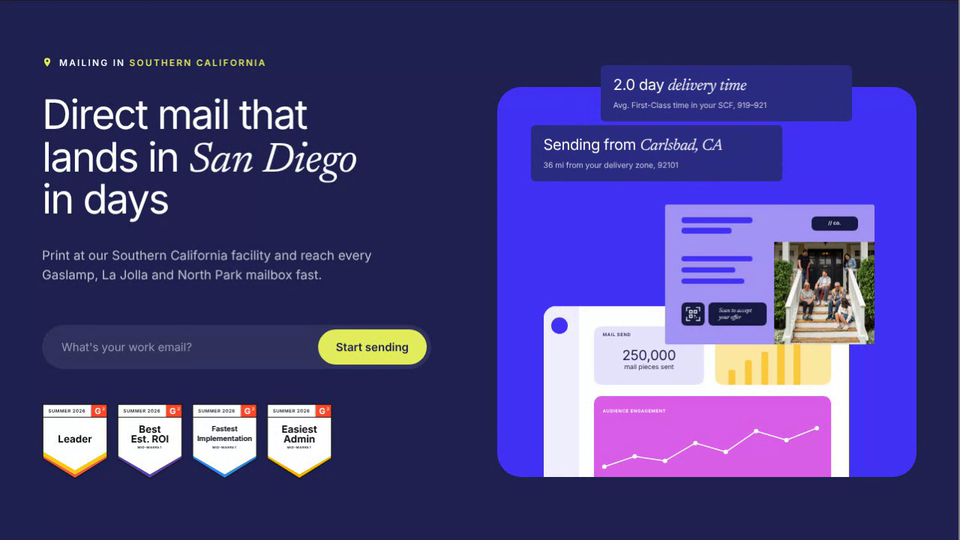
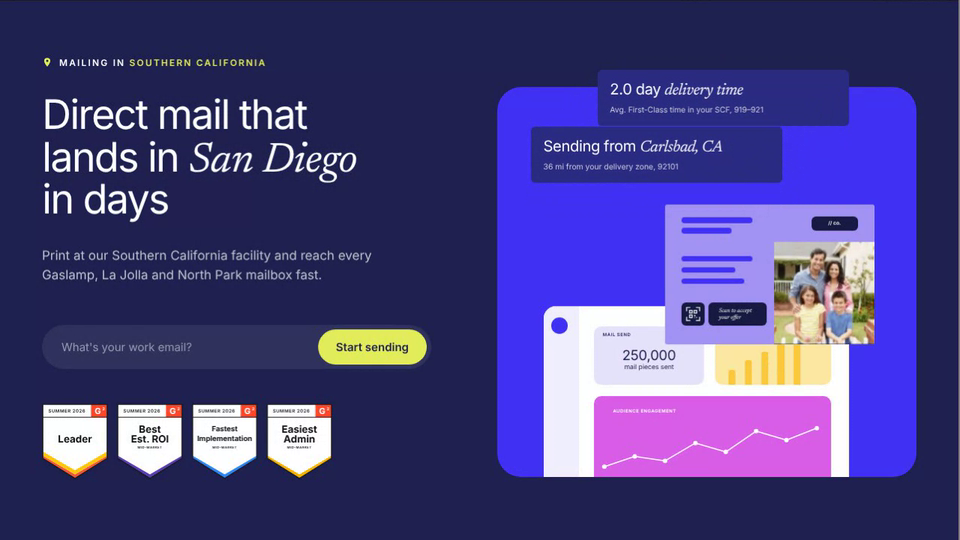
Location Hero: region labels (#312)
* Add Location Hero: Lob-style hero that switches San Francisco to Miami

Claude-Session: https://claude.ai/code/session_01AHeBdxeACcd88pkrxSw1Hy

* Location Hero: real mailpiece and photo, switcher in header, no logo or sign in, looser headline

Claude-Session: https://claude.ai/code/session_01AHeBdxeACcd88pkrxSw1Hy

* Location Hero: rounder, offset blurbs, shorter purple box, G2 badges, 3 line title, switcher in nav

Claude-Session: https://claude.ai/code/session_01AHeBdxeACcd88pkrxSw1Hy

* Location Hero: rebuild the mailpiece from the pink template gallery postcard layout in the purple style

Claude-Session: https://claude.ai/code/session_01AHeBdxeACcd88pkrxSw1Hy

* Location Hero: squarer postcard, QR beside scan block, smaller logo, bigger photo, G2 badges redrawn to match

Claude-Session: https://claude.ai/code/session_01AHeBdxeACcd88pkrxSw1Hy

* Location Hero: San Diego, tighter title, no crosshairs, chart up, new QR, postcard right, Start sending CTA

Claude-Session: https://claude.ai/code/session_01AHeBdxeACcd88pkrxSw1Hy

* Location Hero: longer blurbs, tighter title line height

Claude-Session: https://claude.ai/code/session_01AHeBdxeACcd88pkrxSw1Hy

* Location Hero: no drop shadow on the postcard

Claude-Session: https://claude.ai/code/session_01AHeBdxeACcd88pkrxSw1Hy

* Location Hero: blurbs placed in the marked positions

Claude-Session: https://claude.ai/code/session_01AHeBdxeACcd88pkrxSw1Hy

* Location Hero: no eyebrow text on blurbs, squarer blurb corners
[…]

Changed region(s): [[0.5625, 0.1185, 0.9062, 0.3556], [0.7812, 0.4444, 0.9375, 0.6519], [0.625, 0.7407, 0.7188, 0.7704]]

diff --git a/location-hero/index.html b/location-hero/index.html
@@ -24,7 +24,6 @@ nav.back span{color:#6e6e6e}nav.back b{font-weight:500;color:#fff;overflow:hidde
 .chip svg{width:14px;height:14px;fill:var(--lime)}
 .chip em{font-style:normal;color:var(--lime)}
 h1{font-weight:400;font-size:calc(clamp(34px,4.4vw,58px) - 2px);line-height:1.04;letter-spacing:-2px;margin:30px 0 34px;white-space:nowrap}
-h1 br.mo{display:none}
 h1 i{font-family:var(--serif);font-style:italic;letter-spacing:-.01em;font-size:clamp(34px,4.4vw,58px);line-height:0}
 .sw{display:inline-block;transition:opacity .35s,transform .35s,filter .35s}
 .sw.out{opacity:0;transform:translateY(10px);filter:blur(6px)}
@@ -39,7 +38,7 @@ h1 i{font-family:var(--serif);font-style:italic;letter-spacing:-.01em;font-size:
 
 /* illustration */
 .stage{position:relative;aspect-ratio:1/1;width:100%;max-width:600px;justify-self:end;container-type:inline-size}
-.blurbs div.bl{position:absolute;width:60%;background:var(--card);border-radius:6px;padding:0 3cqw;height:13.4%;display:flex;align-items:center;color:#fff;z-index:3;opacity:0;left:8%;top:24%;transform:scale(.8);transform-origin:50% 100%;transition:left 1.9s cubic-bezier(.22,.8,.3,1),top 1.9s cubic-bezier(.22,.8,.3,1),transform .6s cubic-bezier(.34,1.56,.64,1),opacity .45s}
+.blurbs div.bl{position:absolute;width:60%;background:var(--card);border-radius:6px;padding:1.6cqw 3cqw;height:13.4%;display:flex;align-items:center;color:#fff;z-index:3;opacity:0;left:8%;top:24%;transform:scale(.8);transform-origin:50% 100%;transition:left 1.9s cubic-bezier(.22,.8,.3,1),top 1.9s cubic-bezier(.22,.8,.3,1),transform .6s cubic-bezier(.34,1.56,.64,1),opacity .45s}
 .blurbs .bl[data-s="1"]{left:8%;top:15.4%;opacity:1;transform:none}
 .blurbs .bl[data-s="0"]{left:26%;top:0;opacity:1;transform:none}
 .blurbs .bl[data-s="x"]{left:26%;top:-15.4%;opacity:0;transform:scale(.97);transition:left 1.9s,top 1.9s cubic-bezier(.22,.8,.3,1),transform .6s,opacity .9s .2s}
@@ -60,7 +59,6 @@ h1 i{font-family:var(--serif);font-style:italic;letter-spacing:-.01em;font-size:
 .t1 span{position:absolute;left:0;right:0;top:63%;text-align:center;font:400 1.55cqw var(--sans);color:var(--ink)}
 .t2{left:56%;top:9%;width:38%;height:26%;background:var(--yel)}
 .t2 i{position:absolute;bottom:0;width:6%;background:var(--yel2);border-radius:3px 3px 0 0}
-.t3 small{left:3.7%}
 .t3{left:16.5%;top:40%;width:77.5%;height:60%;background:var(--pink)}
 .t3 svg{position:absolute;left:0;top:16%;width:100%;height:auto;display:block}
 .mail{z-index:2;position:absolute;left:40%;top:35%;width:50%;aspect-ratio:1.5;border-radius:3px;overflow:hidden}
@@ -72,7 +70,7 @@ h1 i{font-family:var(--serif);font-style:italic;letter-spacing:-.01em;font-size:
 .qr svg{width:66%;height:66%}
 .scan{background:var(--deep);color:#fff;border-radius:6px;font:italic 400 1.4cqw/1.15 var(--serif);display:flex;align-items:center;padding:0 5%}
 .ph{object-fit:cover;border-radius:0}
-@media(max-width:900px){.hero{grid-template-columns:minmax(0,1fr);padding:24px 20px 28px}.stage{justify-self:center}.sub{min-height:0}h1{white-space:normal;font-size:clamp(30px,9.4vw,56px);letter-spacing:-.05em;margin:24px 0 26px}h1 i{font-size:1.06em}h1 br.dk{display:none}h1 br.mo{display:inline}}
+@media(max-width:900px){.hero{grid-template-columns:1fr;padding:24px 20px 28px}.stage{justify-self:center}.sub{min-height:0}h1{white-space:normal}}
 @media(prefers-reduced-motion:reduce){.sw,.bl,.bi{transition:none}}
 </style>
 </head>
@@ -115,26 +113,26 @@ h1 i{font-family:var(--serif);font-style:italic;letter-spacing:-.01em;font-size:
 </main>
 <script>
 const CITIES=[
- {city:'San Diego, CA',region:'Southern California',h:'Direct mail that<br class="dk"> lands<br class="mo"> in <i>San Diego</i><br class="dk"> in days',sub:"Print at our Southern California facility and reach every Gaslamp, La Jolla and North Park mailbox fast.",
+ {city:'San Diego, CA',region:'Southern California',h:'Direct mail that<br>lands in <i>San Diego</i><br>in days',sub:"Print at our Southern California facility and reach every Gaslamp, La Jolla and North Park mailbox fast.",
   b:[['2.0 day <i>delivery time</i>','Avg. First-Class time in your SCF, 919–921'],
      ['Sending from <i>Carlsbad, CA</i>','36 mi from your delivery zone, 92101'],
-     ['<i>21,340</i> homes in your zone','Gaslamp, La Jolla and North Park, mapped to carrier routes']]},
- {city:'Miami, FL',region:'South Florida',h:'Direct mail that<br class="dk"> lands<br class="mo"> in <i>Miami</i><br class="dk"> in days',sub:"Print at our Florida facility and reach every Brickell, Wynwood and Coral Gables mailbox fast.",
+     ['<i>21,340</i> homes in your zone','Gaslamp, La Jolla and North Park routes']]},
+ {city:'Miami, FL',region:'South Florida',h:'Direct mail that<br>lands in <i>Miami</i><br>in days',sub:"Print at our Florida facility and reach every Brickell, Wynwood and Coral Gables mailbox fast.",
   b:[['2.3 day <i>delivery time</i>','Avg. First-Class time in your SCF, 331–332'],
      ['Sending from <i>Orlando, FL</i>','235 mi from your delivery zone, 33131'],
-     ['<i>24,760</i> homes in your zone','Brickell, Wynwood and Coral Gables, mapped to carrier routes']]},
- {city:'Nashville, TN',region:'Middle Tennessee',h:'Direct mail that<br class="dk"> lands<br class="mo"> in <i>Nashville</i><br class="dk"> in days',sub:"Print at our Tennessee facility and reach every East Nashville, Gulch and Germantown mailbox fast.",
+     ['<i>24,760</i> homes in your zone','Brickell, Wynwood and Coral Gables routes']]},
+ {city:'Nashville, TN',region:'Middle Tennessee',h:'Direct mail that<br>lands in <i>Nashville</i><br>in days',sub:"Print at our Tennessee facility and reach every East Nashville, Gulch and Germantown mailbox fast.",
   b:[['2.1 day <i>delivery time</i>','Avg. First-Class time in your SCF, 370–372'],
      ['Sending from <i>Memphis, TN</i>','210 mi from your delivery zone, 37203'],
-     ['<i>19,880</i> homes in your zone','East Nashville, Gulch and Germantown, mapped to carrier routes']]},
- {city:'Columbus, OH',region:'Central Ohio',h:'Direct mail that<br class="dk"> lands<br class="mo"> in <i>Columbus</i><br class="dk"> in days',sub:"Print at our Ohio facility and reach every Short North, German Village and Clintonville mailbox fast.",
+     ['<i>19,880</i> homes in your zone','East Nashville, Gulch and Germantown routes']]},
+ {city:'Columbus, OH',region:'Central Ohio',h:'Direct mail that<br>lands in <i>Columbus</i><br>in days',sub:"Print at our Ohio facility and reach every Short North, German Village and Clintonville mailbox fast.",
   b:[['2.0 day <i>delivery time</i>','Avg. First-Class time in your SCF, 430–432'],
      ['Sending from <i>Dayton, OH</i>','72 mi from your delivery zone, 43215'],
-     ['<i>22,410</i> homes in your zone','Short North, German Village and Clintonville, mapped to carrier routes']]},
- {city:'Kansas City, MO',region:'Kansas City Metro',h:'Direct mail that<br class="dk"> lands<br class="mo"> in <i>Kansas City</i><br class="dk"> in days',sub:"Print at our Midwest facility and reach every Westport, Crossroads and Brookside mailbox fast.",
+     ['<i>22,410</i> homes in your zone','Short North, German Village and Clintonville routes']]},
+ {city:'Kansas City, MO',region:'Greater Kansas City',h:'Direct mail that<br>lands in <i>Kansas City</i><br>in days',sub:"Print at our Midwest facility and reach every Westport, Crossroads and Brookside mailbox fast.",
   b:[['2.4 day <i>delivery time</i>','Avg. First-Class time in your SCF, 640–641'],
      ['Sending from <i>Wichita, KS</i>','200 mi from your delivery zone, 64105'],
-     ['<i>17,950</i> homes in your zone','Westport, Crossroads and Brookside, mapped to carrier routes']]}];
+     ['<i>17,950</i> homes in your zone','Westport, Crossroads and Brookside routes']]}];
 const $=id=>document.getElementById(id);
 // G2 style badges
 const BADGES=[
